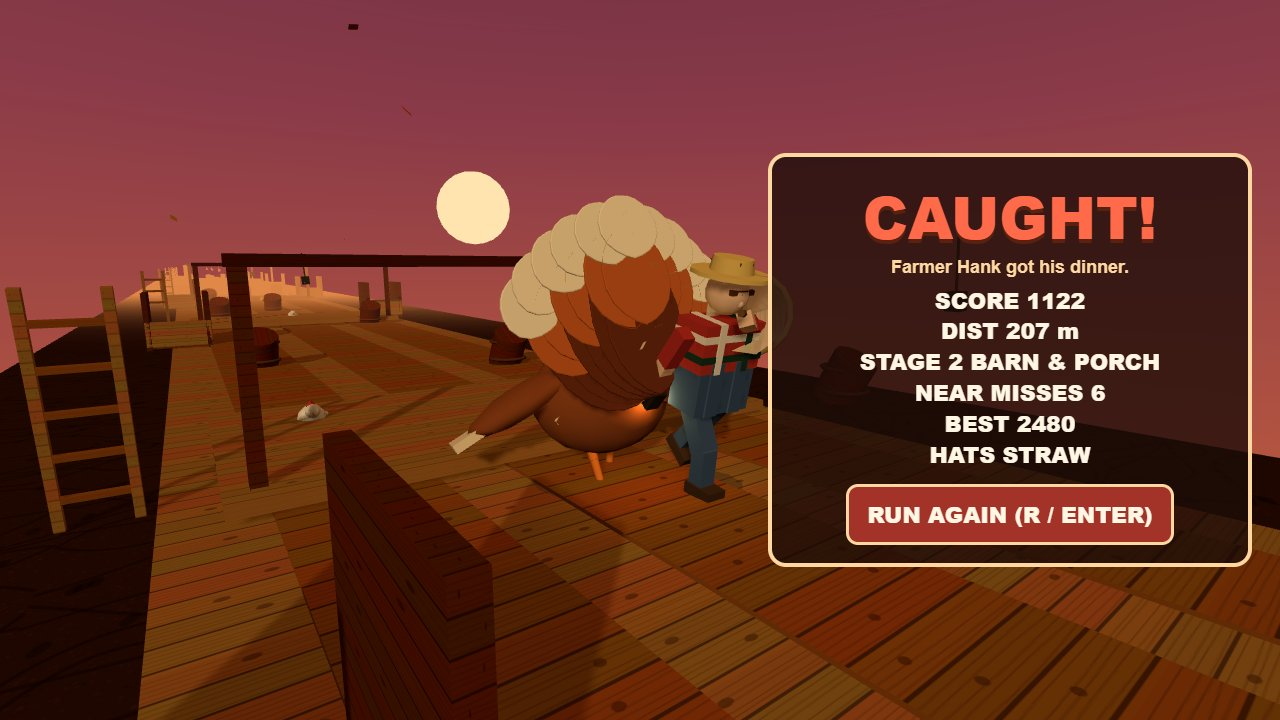
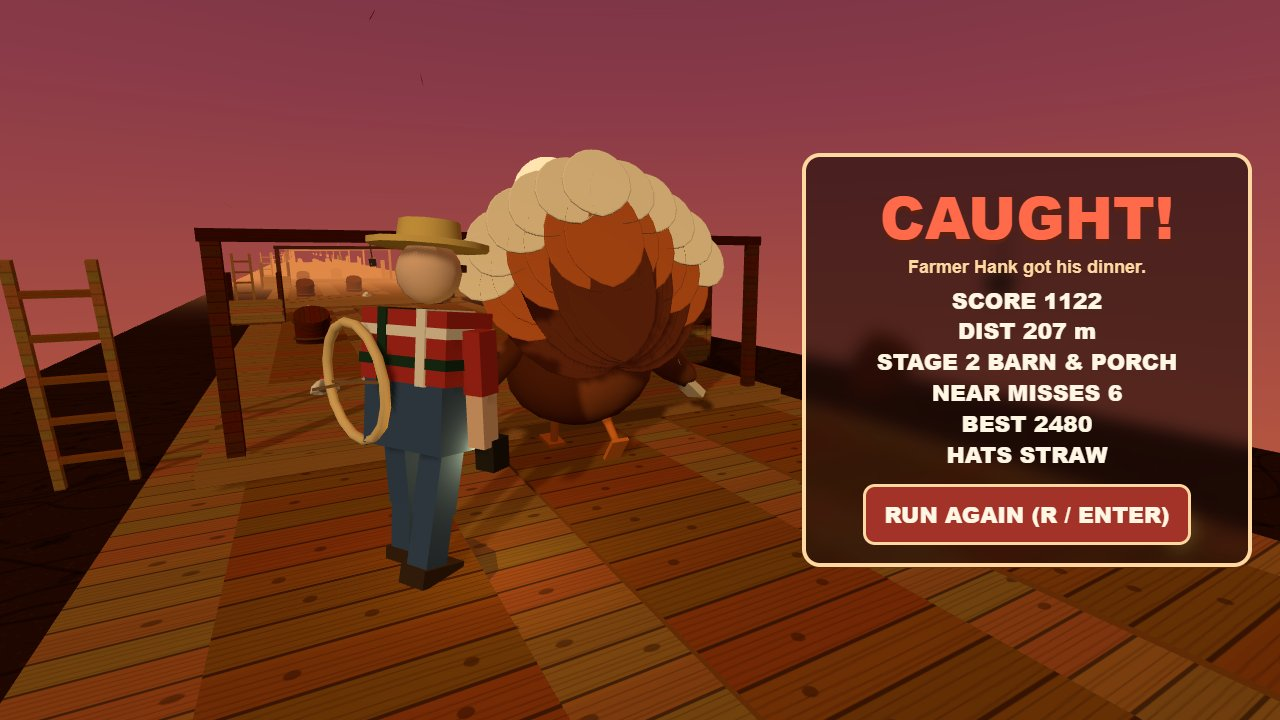
V2B: end + HUD

diff --git a/game/src/main.js b/game/src/main.js
@@ -105,11 +105,13 @@ function syncWorld(dt) {
   const shout = state.shoutT > 0 ? state.shout : '';
   farmerMesh.userData.update(farmer.phase, farmer.state, shout, state.farmerSweep || 0);
   if (state.caughtPose) {
-    farmerMesh.position.z = bird.z + 0.85;
-    farmerMesh.position.x = bird.x + 0.55;
+    // Hank stands just behind Tom, turned down the lane, net swung over the body.
+    farmerMesh.position.set(bird.x - 1.95, 0, bird.z + 1.55);
+    farmerMesh.rotation.y = 2.15;
     farmer.state = 'LUNGE';
-    farmerMesh.userData.update(farmer.phase, 'LUNGE', 'Got you, dinner!', 0);
-    turkey.userData.update(bird.phase, 'panic', bird.y);
+    farmerMesh.userData.update(0.2, 'CAUGHT', '', 0);
+    turkey.position.y = 0.12;
+    turkey.userData.update(1.2, 'panic', 0.12);
   }
   if (state.cornerLane >= 0) {
     laneWarn.material.opacity = 0.42 + Math.sin(state.time * 22) * 0.15;
@@ -406,9 +408,12 @@ if (query.name) {
   }
   if (query.name === 'end') {
     state.lives = 0;
-    state.shout = 'Got you, dinner!';
-    state.shoutT = 2;
+    state.shout = '';
+    state.shoutT = 0;
     state.farmerState = 'LUNGE';
+    bird.pose = 'panic';
+    bird.phase = 1.2;
+    bird.y = 0.12;
   }
   if (query.name === 'title') {
     state.mode = 'title';
@@ -429,6 +434,7 @@ if (query.name) {
     shovePropsClear(farmerMesh, track.root);
     shovePropsClear(turkey, track.root);
   }
+
   renderer.render(scene, camera);
   hud.draw(state);
   screens.show(state);

diff --git a/game/src/screens.js b/game/src/screens.js
@@ -23,7 +23,7 @@ export function createScreens(onRestart) {
   const end = document.createElement('div');
   end.style.cssText = 'position:absolute;inset:0;display:none;align-items:center;justify-content:flex-end;padding-right:28px;pointer-events:none;';
   end.innerHTML = [
-    '<div style="background:rgba(28,12,8,0.78);border:4px solid #ffd7a0;border-radius:18px;padding:18px 28px;color:#fff6e4;text-align:center;width:420px;pointer-events:auto">',
+    '<div style="background:rgba(28,12,8,0.62);backdrop-filter:blur(8px);-webkit-backdrop-filter:blur(8px);border:4px solid #ffd7a0;border-radius:18px;padding:18px 26px;color:#fff6e4;text-align:center;width:390px;pointer-events:auto">',
     '<div id="end-title" style="font-weight:900;font-size:58px;text-shadow:0 4px 0 #5a2010">CAUGHT!</div>',
     '<div id="end-sub" style="font-weight:700;font-size:18px;color:#ffd7a0;margin-bottom:8px"></div>',
     '<div id="end-stats" style="font-size:22px;line-height:1.4;font-weight:800"></div>',

diff --git a/game/src/farmer-model.js b/game/src/farmer-model.js
@@ -160,11 +160,11 @@ export function createFarmer() {
     rig.rotation.set(0.08, 0, 0);
     net.rotation.x = -0.4;
     cone.visible = stateName === 'SEARCH';
-    if (stateName === 'LUNGE') {
-      armR.shoulder.rotation.x = -2.15;
-      armR.shoulder.rotation.z = -0.9;
-      net.rotation.x = 0.15;
-      rig.rotation.x = 0.22;
+    if (stateName === 'LUNGE' || stateName === 'CAUGHT') {
+      armR.shoulder.rotation.x = stateName === 'CAUGHT' ? -1.15 : -2.15;
+      armR.shoulder.rotation.z = stateName === 'CAUGHT' ? -0.25 : -0.9;
+      net.rotation.x = stateName === 'CAUGHT' ? -0.55 : 0.15;
+      rig.rotation.x = stateName === 'CAUGHT' ? 0.12 : 0.22;
     } else if (stateName === 'SEARCH') {
       const sweepAngle = Math.sin(sweep || phase) * 0.7;
       armL.shoulder.rotation.z = sweepAngle;

diff --git a/game/src/camera-rig.js b/game/src/camera-rig.js
@@ -27,8 +27,9 @@ export function createCameraRig(camera) {
         desired.set(bird.x - 2.55, 1.62, bird.z - 3.7);
         look.set(bird.x + 1.15, 1.05, bird.z + 0.45);
       } else if (state.caughtPose) {
-        desired.set(bird.x - 3.6, 2.35, bird.z + 5.4);
-        look.set(bird.x + 1.4, 1.05, bird.z - 1.2);
+        // Behind and a little left. Look toward +X so Tom and Hank stay left of the card.
+        desired.set(bird.x - 2.5, 2.25, bird.z + 5.7);
+        look.set(bird.x + 1.15, 0.9, bird.z - 0.8);
       } else if (state.escapedPose) {
         desired.set(bird.x - 3.2, 2.6, bird.z + 6.2);
         look.set(bird.x, 1.15, bird.z - 8);

diff --git a/game/src/hud.js b/game/src/hud.js
@@ -218,8 +218,8 @@ export function createHud(canvas) {
         ctx.font = '900 48px Arial Black, Arial, sans-serif';
         ctx.lineWidth = 8;
         ctx.fillStyle = '#ffd24a';
-        ctx.strokeText(state.bonus, w / 2, h * 0.2 + 58);
-        ctx.fillText(state.bonus, w / 2, h * 0.2 + 58);
+        ctx.strokeText(state.bonus, w * 0.78, h * 0.16);
+        ctx.fillText(state.bonus, w * 0.78, h * 0.16);
       }
       ctx.textAlign = 'left';
     }
